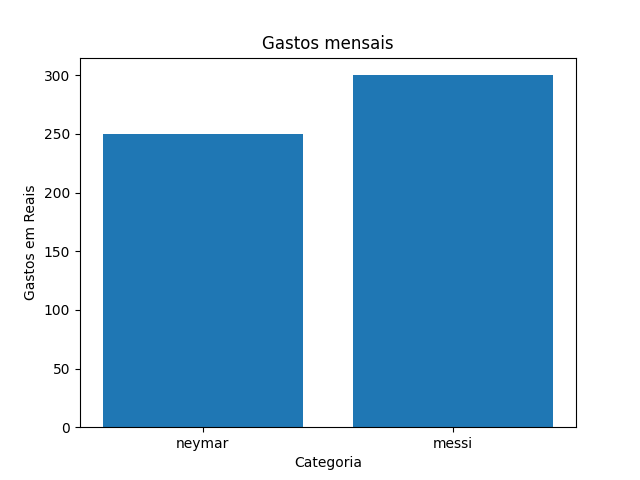
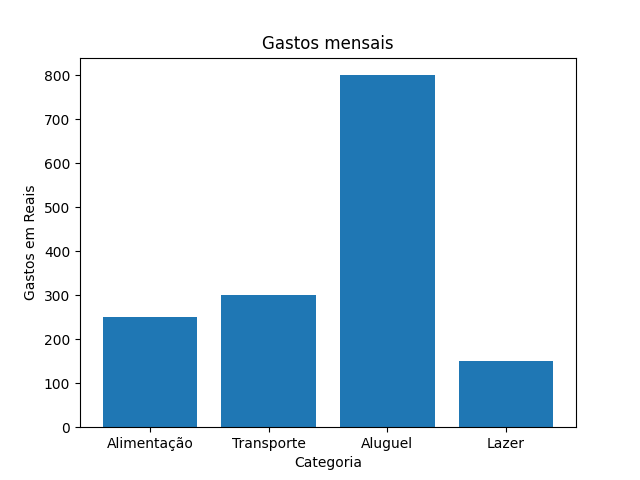
Mudanças de Layout

diff --git a/Tcc/app/main.py b/Tcc/app/main.py
@@ -22,9 +22,8 @@ class Interface(ScreenManager):
         msg = db_categoria.gera_categoria(nome, valor)
         return msg
     def gen_chart(self):
-        dict = {"neymar": 250.00, "messi": 300.00}
+        dict = {"Alimentação": 250.00, "Transporte": 300.00, "Aluguel": 800.00, "Lazer": 150.00}
         gen_charts.generate(dict)
-
                 
 class Myapp(MDApp):
     def build(self):
